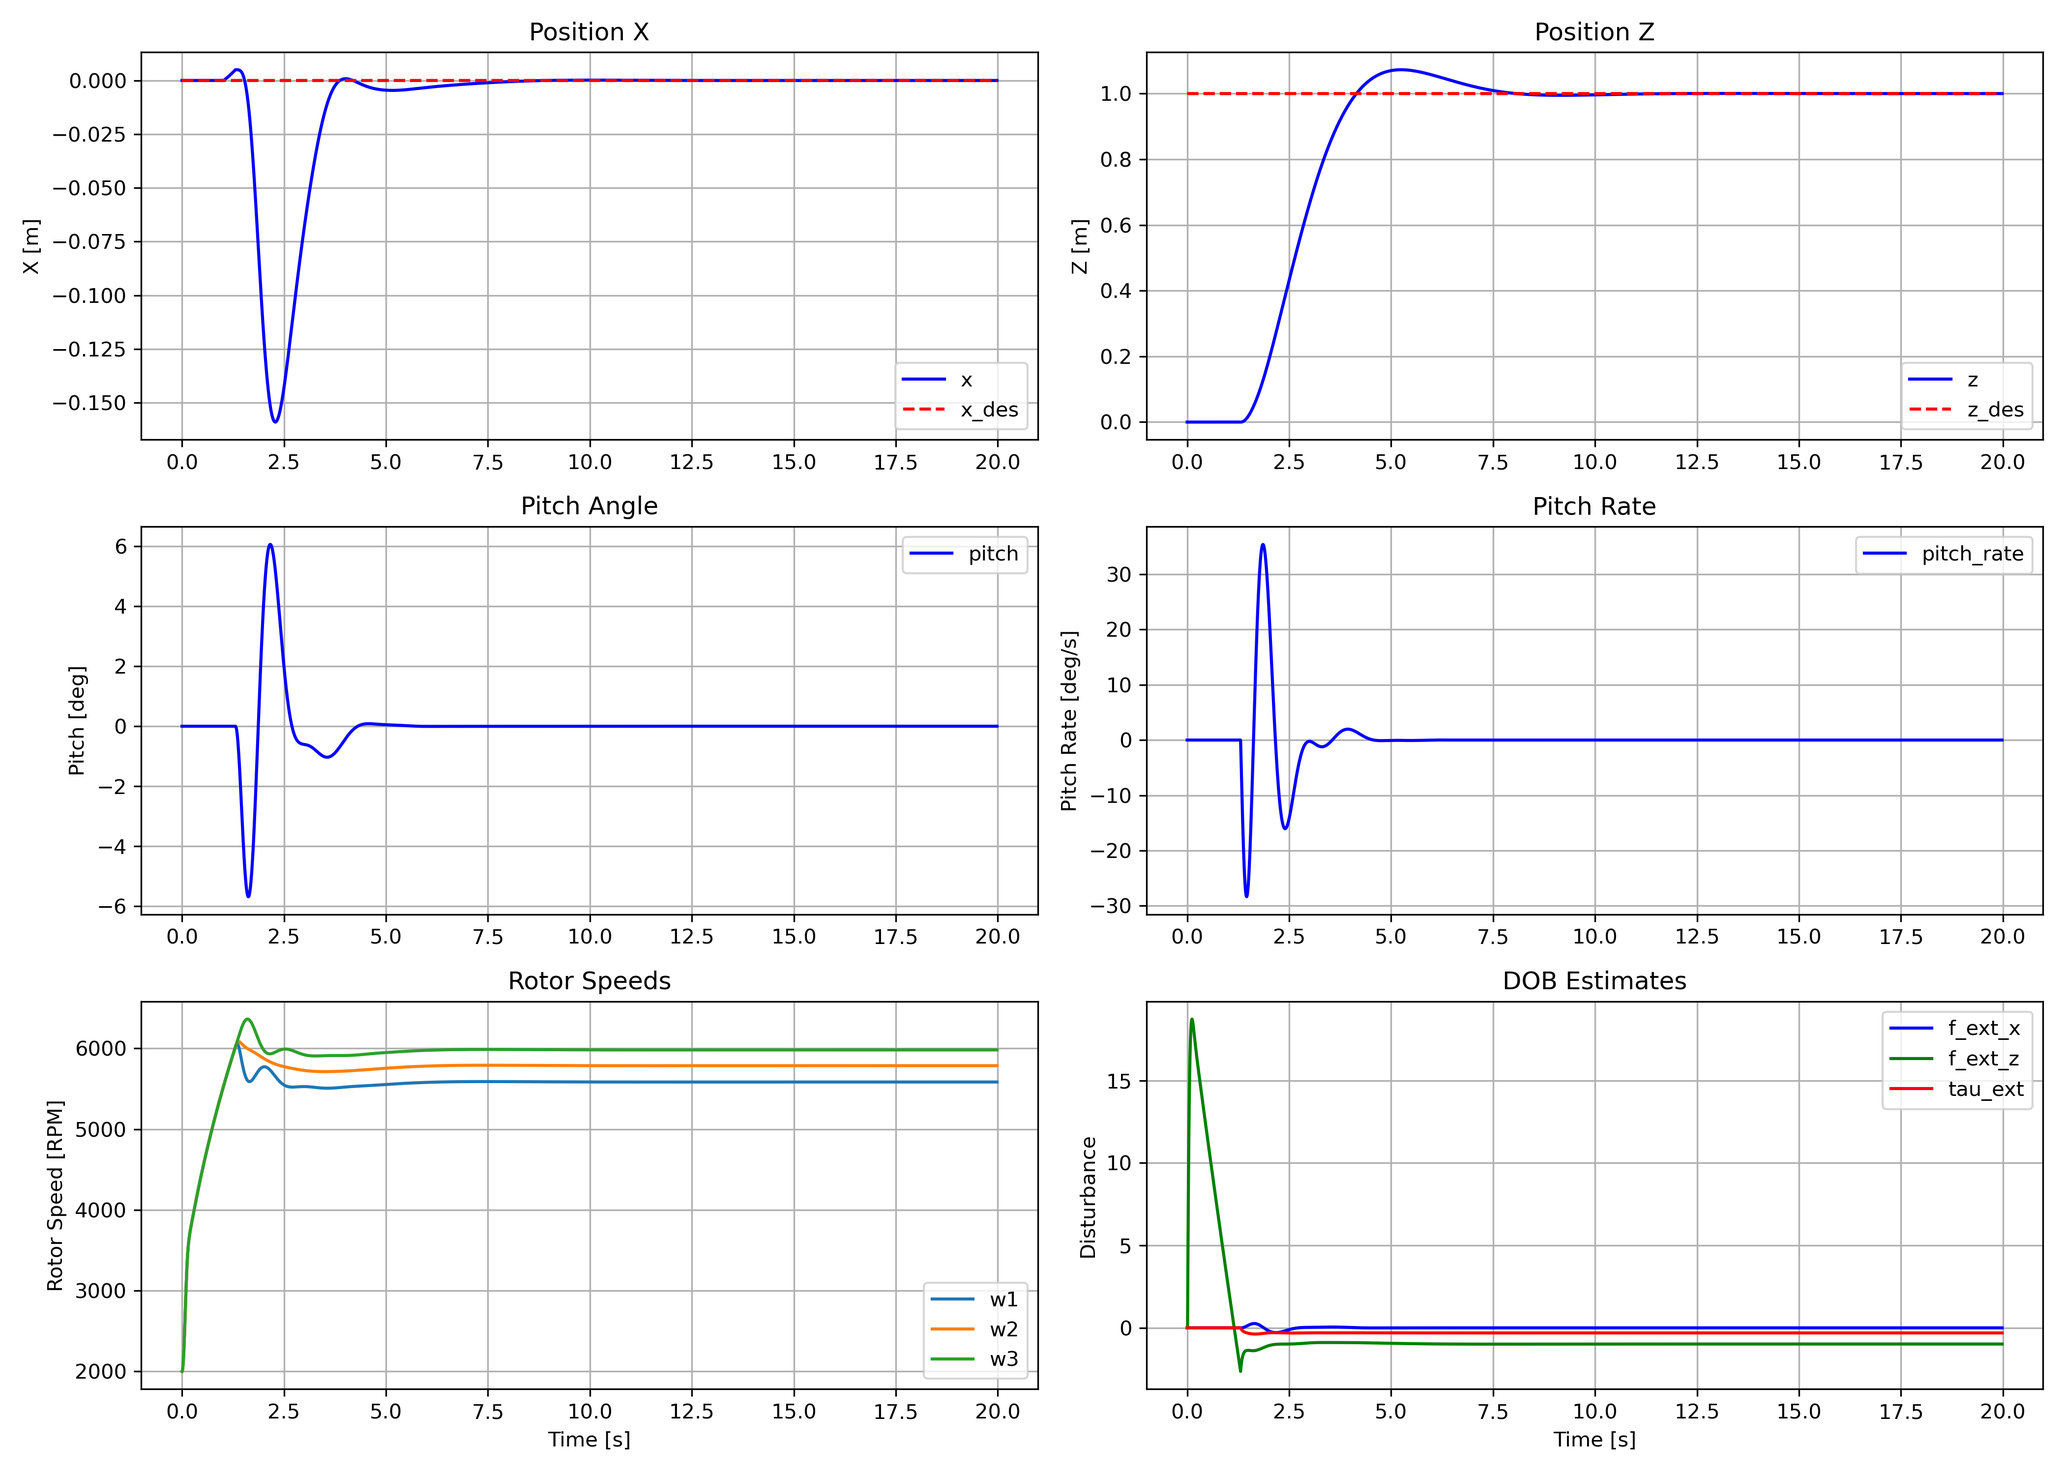
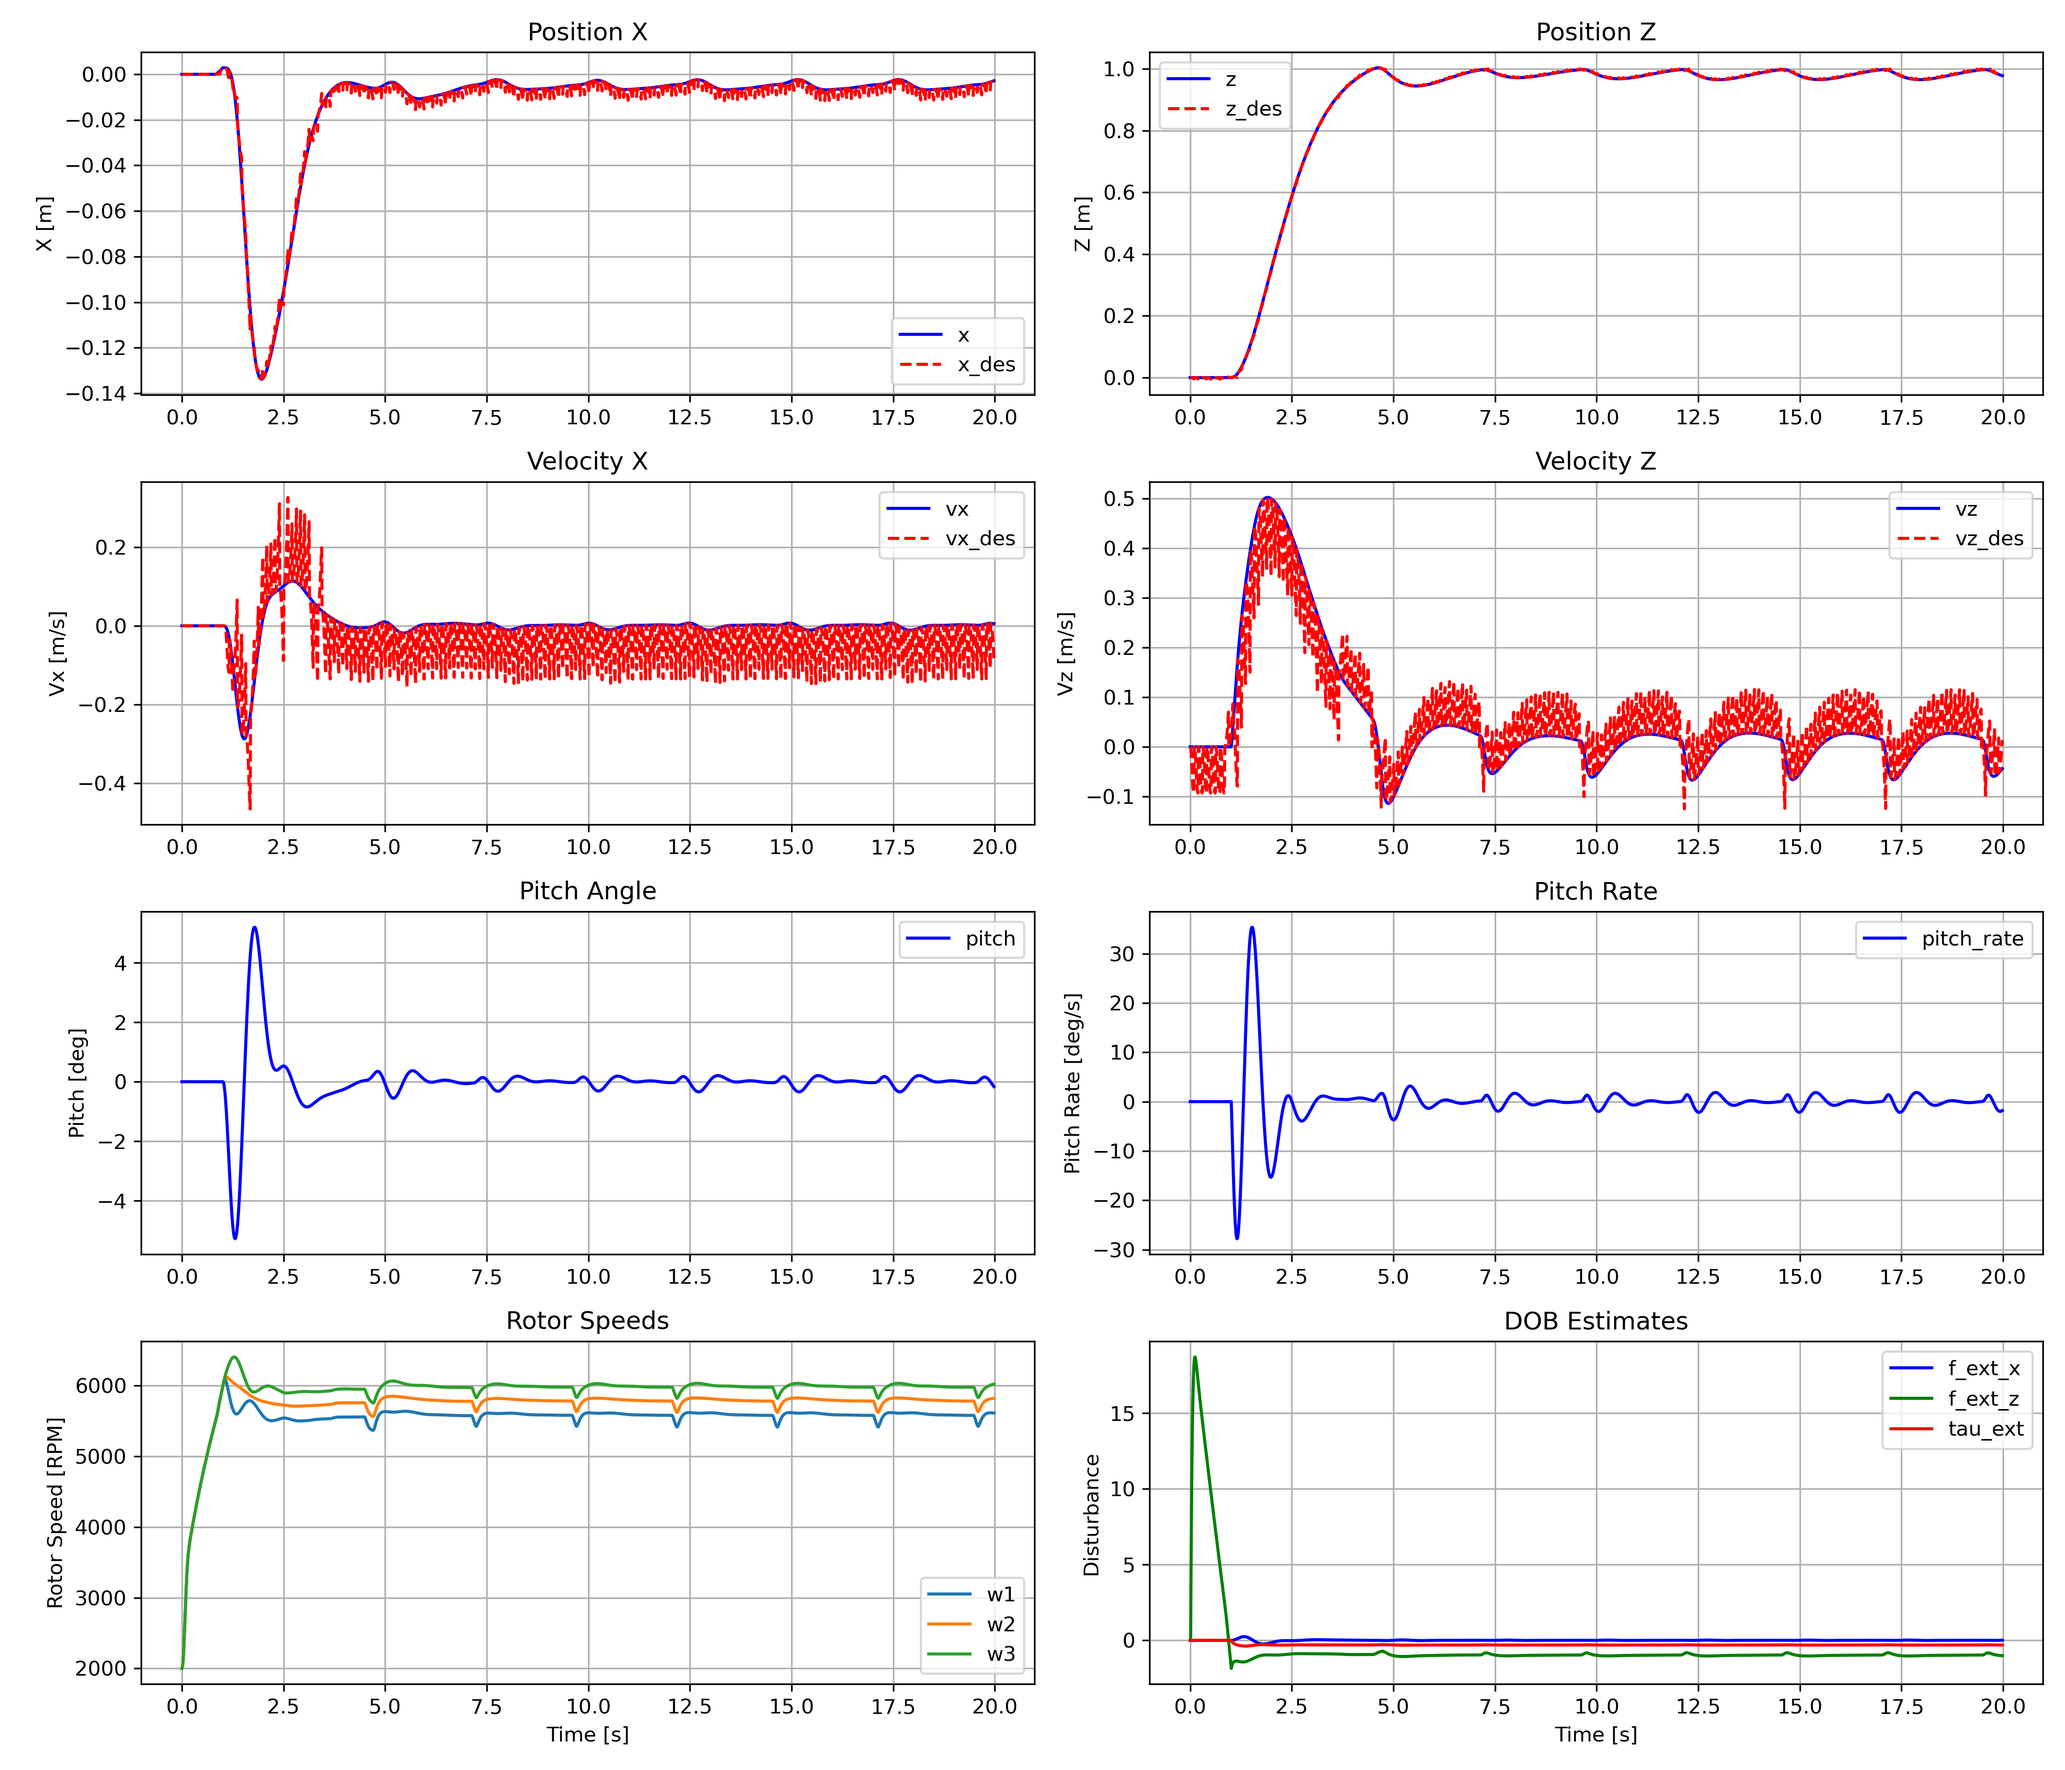
100 Hz

diff --git a/control/nmpc/ocp/S550_3DOF_ocp.py b/control/nmpc/ocp/S550_3DOF_ocp.py
@@ -146,7 +146,7 @@ class S550_3DOF_ocp:
         self.target_2d = None
         self.time_scale = 1.0
         self.t_start = 0.0
-        self.replan_interval = 0.1  # 100ms (10Hz)
+        self.replan_interval = 0.01  # 100ms (100Hz)
 
     def setup_tracking(self, tracking_params, target_2d):
         """Initialize Hehn trajectory generator for tracking mode."""
